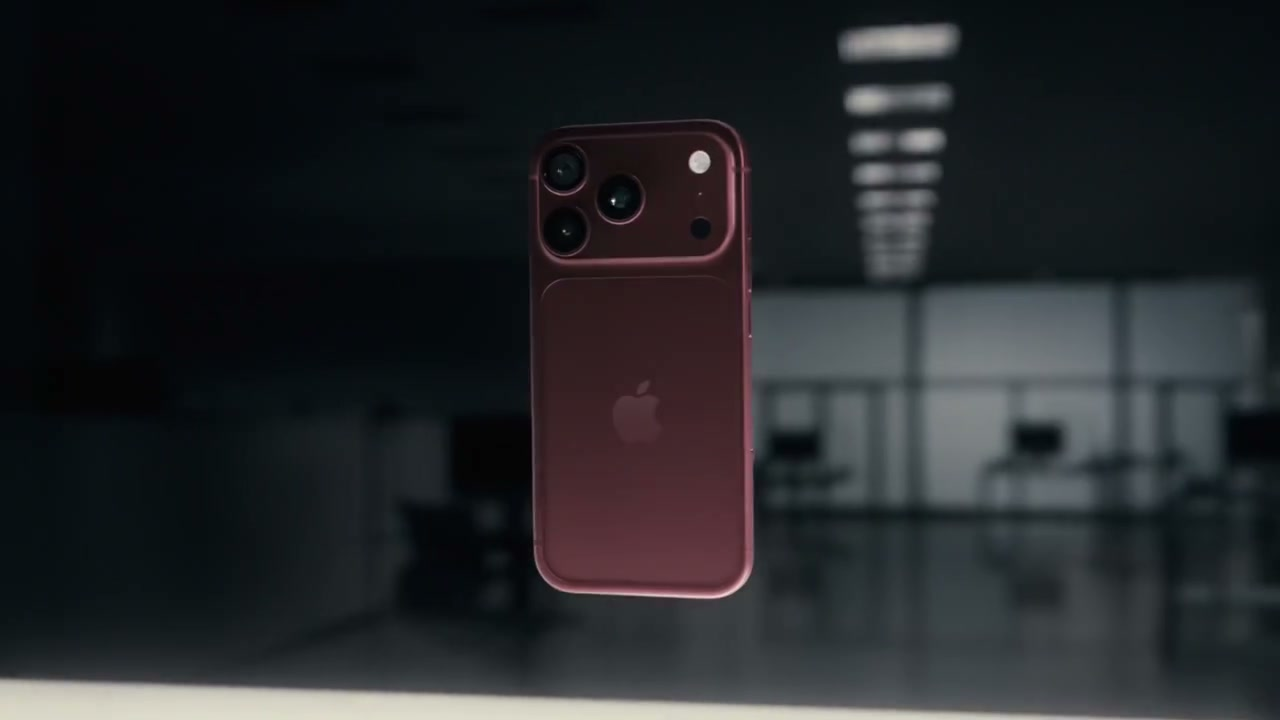
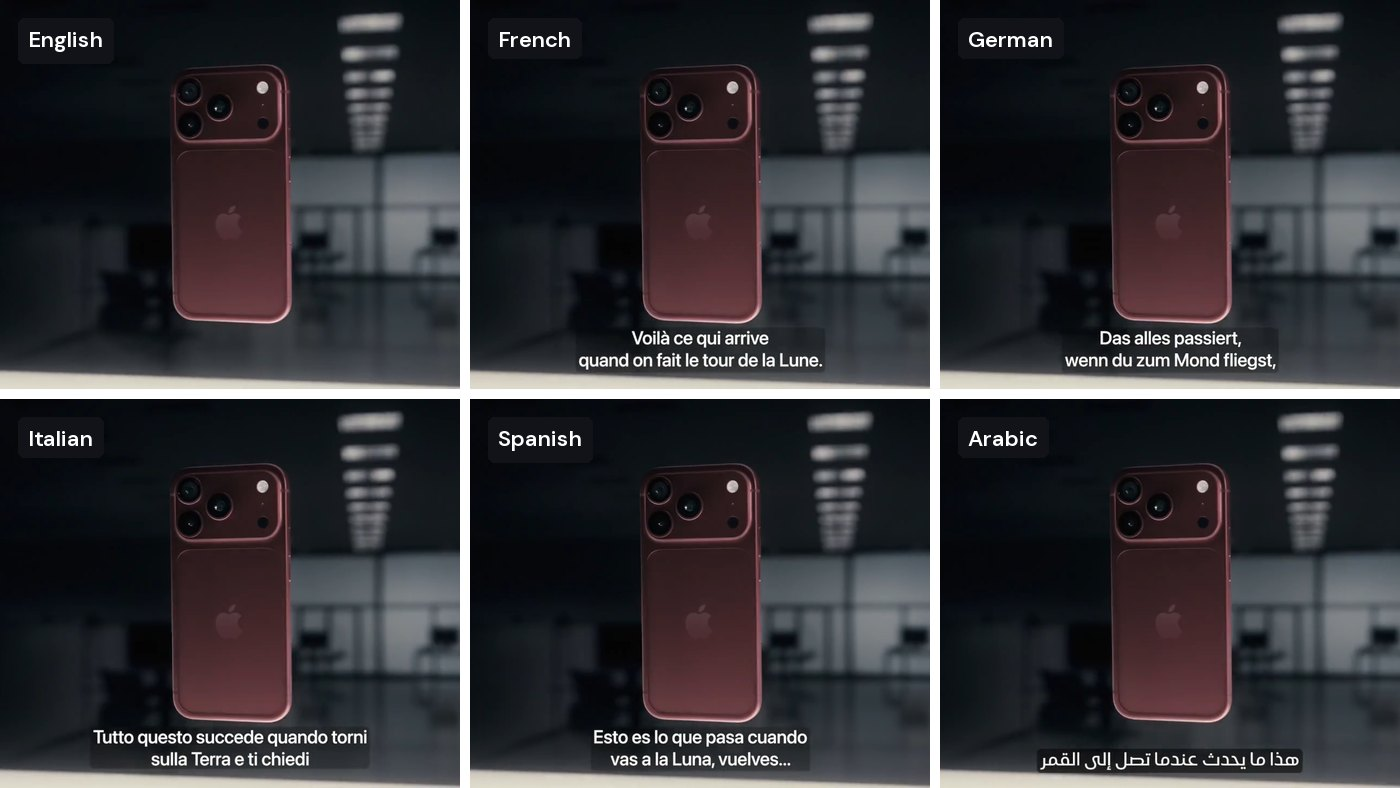
Show six markets on the Across markets cover and quieten the hero
The regional leadership card wore a generic dark phone still, so the
first screen read Saudi-only. Its cover is now the same closing shot of
the iPhone 18 Pro launch film in six versions: the English master, then
French, German, Italian, Spanish and Arabic with their localised lines.
One image, six markets. Built at 16:9 to match the card crop.

The hero had four competing controls. The "drag to shuffle" hint is
gone (drag still works) and "Another moment" is now a single round
shuffle button with an accessible label, leaving "have a look" and
"Pause motion" as the only text affordances.

diff --git a/index.html b/index.html
@@ -18,22 +18,22 @@
   <link rel="preload" href="fonts/bricolage-800.woff2" as="font" type="font/woff2" crossorigin>
   <link rel="preload" href="fonts/caveat-400.woff2" as="font" type="font/woff2" crossorigin>
   <link rel="preload" href="fonts/dmsans-400.woff2" as="font" type="font/woff2" crossorigin>
-  <link rel="stylesheet" href="fonts.css?v=20260923-batch1">
-  <link rel="stylesheet" href="site.css?v=20260923-batch1">
-  <link rel="stylesheet" href="opening.css?v=20260923-batch1">
-  <link rel="stylesheet" href="collection.css?v=20260923-batch1">
-  <link rel="stylesheet" href="brands.css?v=20260923-batch1">
-  <link rel="stylesheet" href="localisation.css?v=20260923-batch1">
-  <script src="work-data.js?v=20260923-batch1" defer></script>
-  <script src="background-data.js?v=20260923-batch1" defer></script>
-  <script src="choices.js?v=20260923-batch1" defer></script>
-  <script src="personal-touches.js?v=20260923-batch1" defer></script>
-  <script src="bts-content.js?v=20260923-batch1" defer></script>
-  <script src="image-dimensions.js?v=20260923-batch1" defer></script>
-  <script src="brands.js?v=20260923-batch1" defer></script>
-  <script src="captions.js?v=20260923-batch1" defer></script>
-  <script src="hero-deck.js?v=20260923-batch1" defer></script>
-  <script src="site.js?v=20260923-batch1" defer></script>
+  <link rel="stylesheet" href="fonts.css?v=20260923-b">
+  <link rel="stylesheet" href="site.css?v=20260923-b">
+  <link rel="stylesheet" href="opening.css?v=20260923-b">
+  <link rel="stylesheet" href="collection.css?v=20260923-b">
+  <link rel="stylesheet" href="brands.css?v=20260923-b">
+  <link rel="stylesheet" href="localisation.css?v=20260923-b">
+  <script src="work-data.js?v=20260923-b" defer></script>
+  <script src="background-data.js?v=20260923-b" defer></script>
+  <script src="choices.js?v=20260923-b" defer></script>
+  <script src="personal-touches.js?v=20260923-b" defer></script>
+  <script src="bts-content.js?v=20260923-b" defer></script>
+  <script src="image-dimensions.js?v=20260923-b" defer></script>
+  <script src="brands.js?v=20260923-b" defer></script>
+  <script src="captions.js?v=20260923-b" defer></script>
+  <script src="hero-deck.js?v=20260923-b" defer></script>
+  <script src="site.js?v=20260923-b" defer></script>
 </head>
 <body id="top">
   <a class="skip" href="#work">Skip to work</a>
@@ -54,7 +54,7 @@
               <figcaption>Apple · Relax, it’s iPhone</figcaption>
             </figure>
           </div>
-          <div class="deck-controls"><span class="hand" aria-hidden="true">drag to shuffle</span><button id="next-moment" type="button" aria-label="Shuffle photos">Another moment <span aria-hidden="true">↻</span></button></div>
+          <div class="deck-controls"><button id="next-moment" type="button" aria-label="Another moment" title="Another moment"><span aria-hidden="true">↻</span></button></div>
           <span class="deck-status" role="status" aria-live="polite" aria-atomic="true"></span>
         </div>
       </div>

diff --git a/opening.css b/opening.css
@@ -30,9 +30,9 @@
 .moment-deck.is-dragging .moment-image { cursor: grabbing; }
 .moment-deck.is-shuffling .moment-image { cursor: default; }
 .moment-deck .moment-frame figcaption { display: block; font-size: clamp(11px, .95vw, 14px); padding: 13px 4px 6px; min-height: 37px; }
-.deck-controls { display: flex; align-items: center; justify-content: space-between; gap: 18px; padding: 30px 6px 0; }
+.deck-controls { display: flex; align-items: center; justify-content: flex-end; gap: 18px; padding: 22px 6px 0; }
 .deck-controls > .hand { font-size: clamp(21px, 2vw, 29px); transform: rotate(-4deg); }
-.deck-controls #next-moment { font-size: 12px; padding: 10px 0; min-height: 42px; display: flex; align-items: center; gap: 8px; }
+.deck-controls #next-moment { width: 44px; height: 44px; padding: 0; border: 1px solid var(--blue); border-radius: 50%; display: flex; align-items: center; justify-content: center; color: var(--blue); background: transparent; }
 .deck-controls #next-moment span { font-size: 21px; display: inline-block; transition: transform 350ms ease; }
 .deck-controls #next-moment:hover span { transform: rotate(45deg); }
 .deck-controls #next-moment[aria-disabled="true"] { opacity: .6; cursor: default; }
@@ -43,7 +43,6 @@
   .opening h1 { top: 52px; left: -.11em; font-size: 24vw; }
   .moment-stack { top: 130px; width: 44%; }
   .deck-controls { gap: 8px; padding-top: 25px; }
-  .deck-controls > .hand { font-size: 21px; }
   .deck-controls #next-moment { font-size: 11px; }
 }
 @media (max-width: 600px) {
@@ -54,14 +53,12 @@
   .moment-deck .moment-frame { padding: 8px; }
   .moment-deck .moment-frame figcaption { padding: 11px 3px 3px; min-height: 30px; font-size: 11px; }
   .deck-controls { padding-top: 25px; gap: 8px; }
-  .deck-controls > .hand { font-size: 23px; }
   .deck-controls #next-moment { font-size: 11px; }
 }
 @media (max-width: 360px) {
   .opening-stage { height: 470px; }
   .moment-stack { top: 206px; }
   .moment-deck .moment-frame figcaption { font-size: 10px; }
-  .deck-controls > .hand { font-size: 21px; }
   .deck-controls #next-moment { font-size: 10px; }
 }
 @media (prefers-reduced-motion: reduce) {html:not(.motion-playing) .deck-controls #next-moment span{ transition: none; }html:not(.motion-playing) .deck-controls #next-moment:hover span{ transform: none; }

diff --git a/work.html b/work.html
@@ -9,8 +9,8 @@
 <meta name="theme-color" content="#fff6d5">
 <link rel="icon" href="favicon.svg" type="image/svg+xml">
 <style>:root{color-scheme:light;font-family:system-ui,sans-serif;color:#193d91;background:#fff6d5}body{margin:0;padding:clamp(24px,6vw,80px);line-height:1.6}main{max-width:760px;margin:auto}h1{font-size:clamp(36px,7vw,64px);line-height:1.1;letter-spacing:-.04em}a{color:inherit;text-decoration-thickness:2px;text-underline-offset:.2em}a:focus-visible{outline:3px solid currentColor;outline-offset:5px}nav{margin-block:32px}ul{padding-left:1.25em}li{margin-block:12px}nav>a{display:inline-block;margin:0 24px 16px 0;padding-block:6px}</style>
-<script src="work-data.js?v=20260923-batch1" defer></script>
-<script src="legacy-route.js?v=20260923-batch1" defer></script>
+<script src="work-data.js?v=20260923-b" defer></script>
+<script src="legacy-route.js?v=20260923-b" defer></script>
 </head>
 <body data-legacy-route="work">
 <main>

diff --git a/about.html b/about.html
@@ -9,7 +9,7 @@
 <meta name="theme-color" content="#fff6d5">
 <link rel="icon" href="favicon.svg" type="image/svg+xml">
 <style>:root{color-scheme:light;font-family:system-ui,sans-serif;color:#193d91;background:#fff6d5}body{margin:0;padding:clamp(24px,6vw,80px);line-height:1.6}main{max-width:760px;margin:auto}h1{font-size:clamp(36px,7vw,64px);line-height:1.1;letter-spacing:-.04em}a{color:inherit;text-decoration-thickness:2px;text-underline-offset:.2em}a:focus-visible{outline:3px solid currentColor;outline-offset:5px}nav{margin-block:32px}ul{padding-left:1.25em}li{margin-block:12px}nav>a{display:inline-block;margin:0 24px 16px 0;padding-block:6px}</style>
-<script src="legacy-route.js?v=20260923-batch1" defer></script>
+<script src="legacy-route.js?v=20260923-b" defer></script>
 </head>
 <body data-legacy-route="about">
 <main>

diff --git a/choices.js b/choices.js
@@ -14,7 +14,7 @@ window.COVER_CHOICES = [
     "note": "A launch. Ten days. Many voices.",
     "position": "50% 50%",
     "image": "media/apple-across-markets.jpg",
-    "alt": "iPhone 18 Pro suspended above a workbench in the launch film"
+    "alt": "The same closing shot of the iPhone 18 Pro launch film in six versions: English master, then French, German, Italian, Spanish and Arabic with their localised lines"
   },
   {
     "slug": "apple-switchers",

diff --git a/image-dimensions.js b/image-dimensions.js
@@ -325,8 +325,8 @@ window.IMAGE_DIMENSIONS = {
     "height": 720
   },
   "media/apple-across-markets.jpg": {
-    "width": 1280,
-    "height": 720
+    "width": 1400,
+    "height": 788
   },
   "media/apple-health-social-cycle.jpg": {
     "width": 360,
